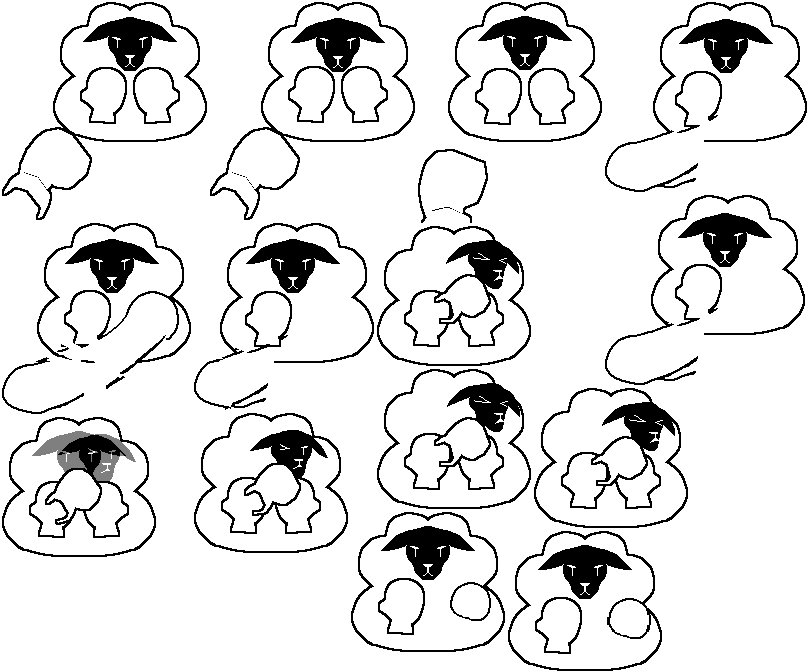
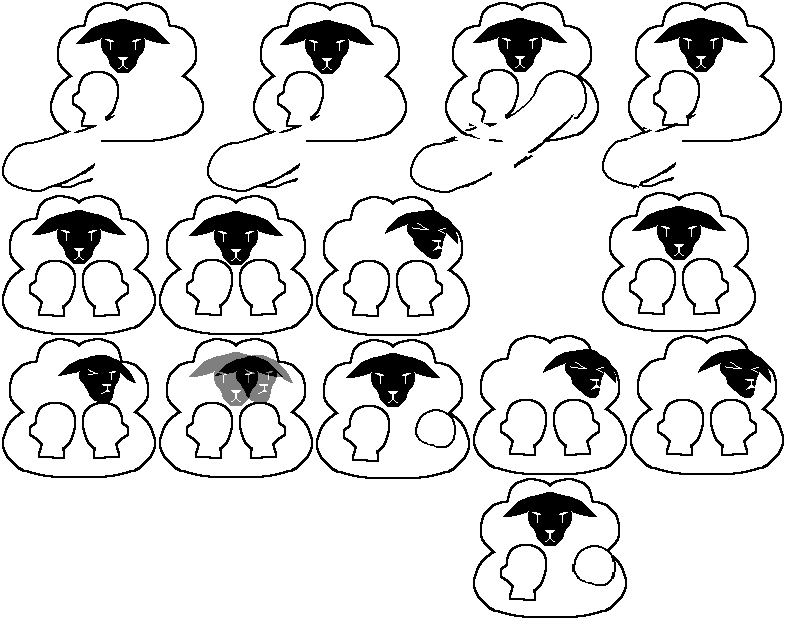
fix boxer sprites, add room tiles

diff --git a/src/scenes/boxing.js b/src/scenes/boxing.js
@@ -56,6 +56,15 @@ class Boxing extends Phaser.Scene {
                 }
                 else {
                     target = 'gameover';
+                    this.boxer.play({
+                        key: this.boxer_tags[2].key,
+                        timeScale:1.25
+                    });
+                    this.sheep.play({
+                        key: this.sheep_tags[1].key,
+                        repeat: 0,
+                        timeScale:0.75,
+                    });
                 }
                 this.transitioning = true;
                 this.scene.transition({target: target, duration: 2000,});
